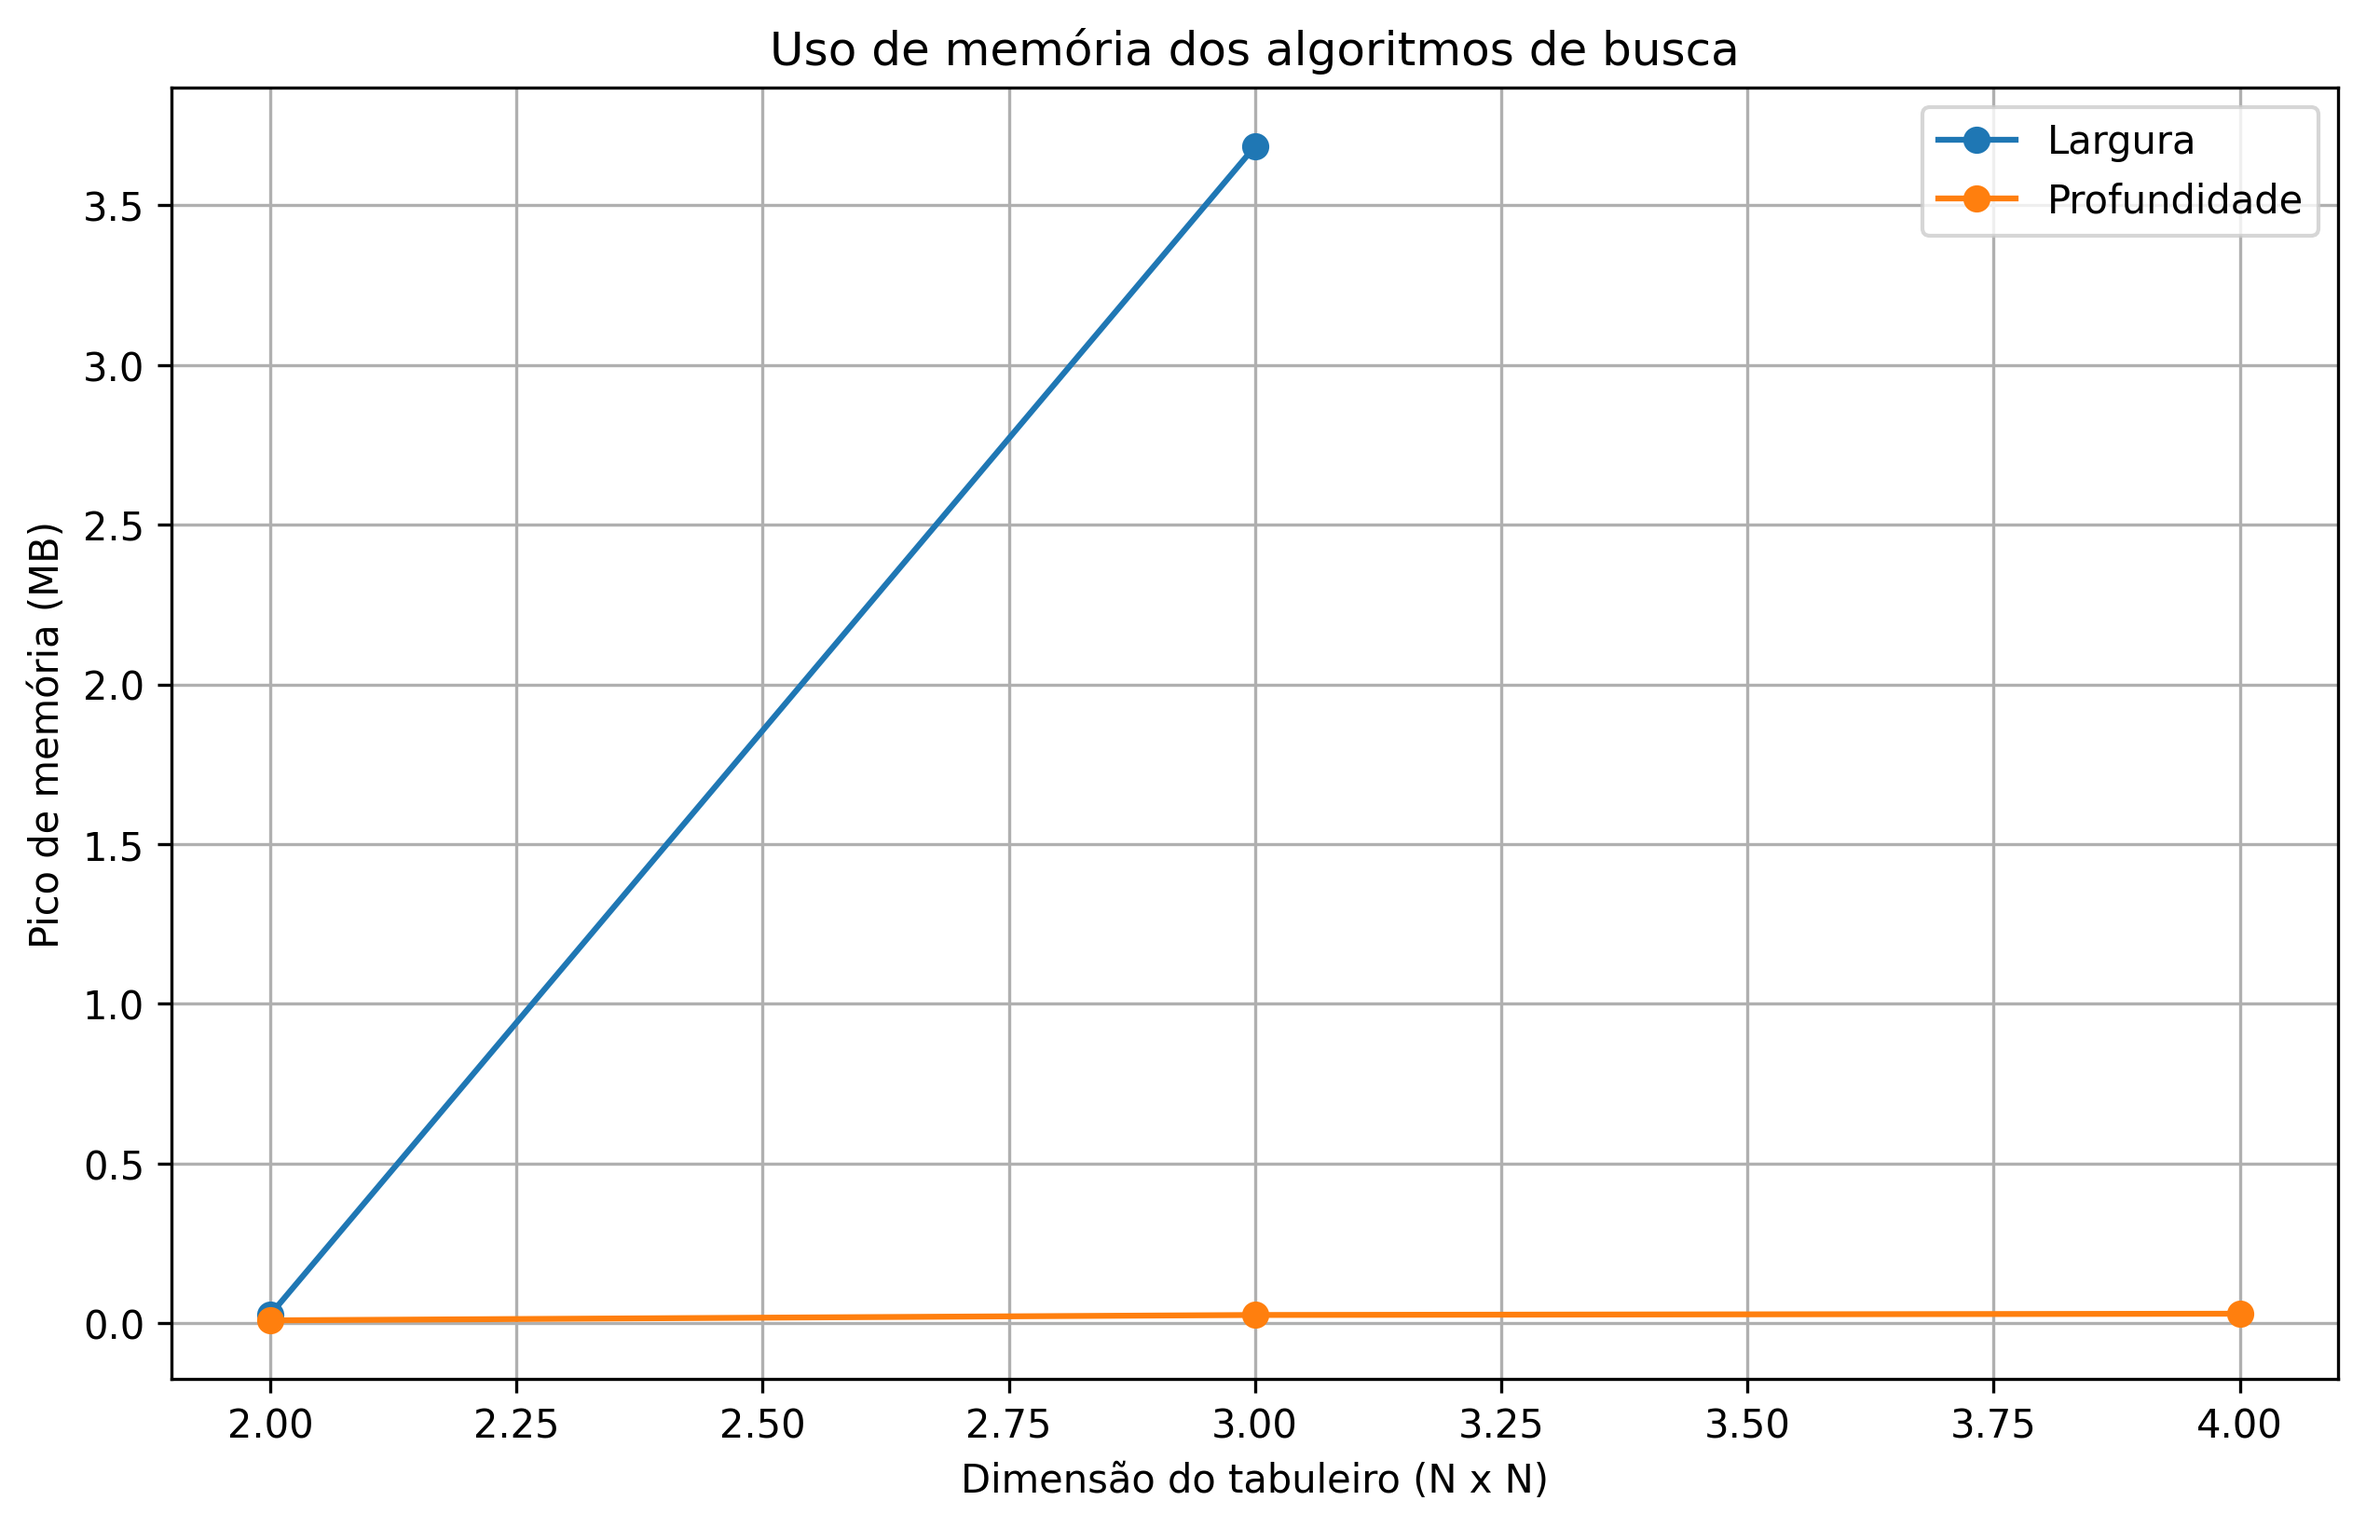
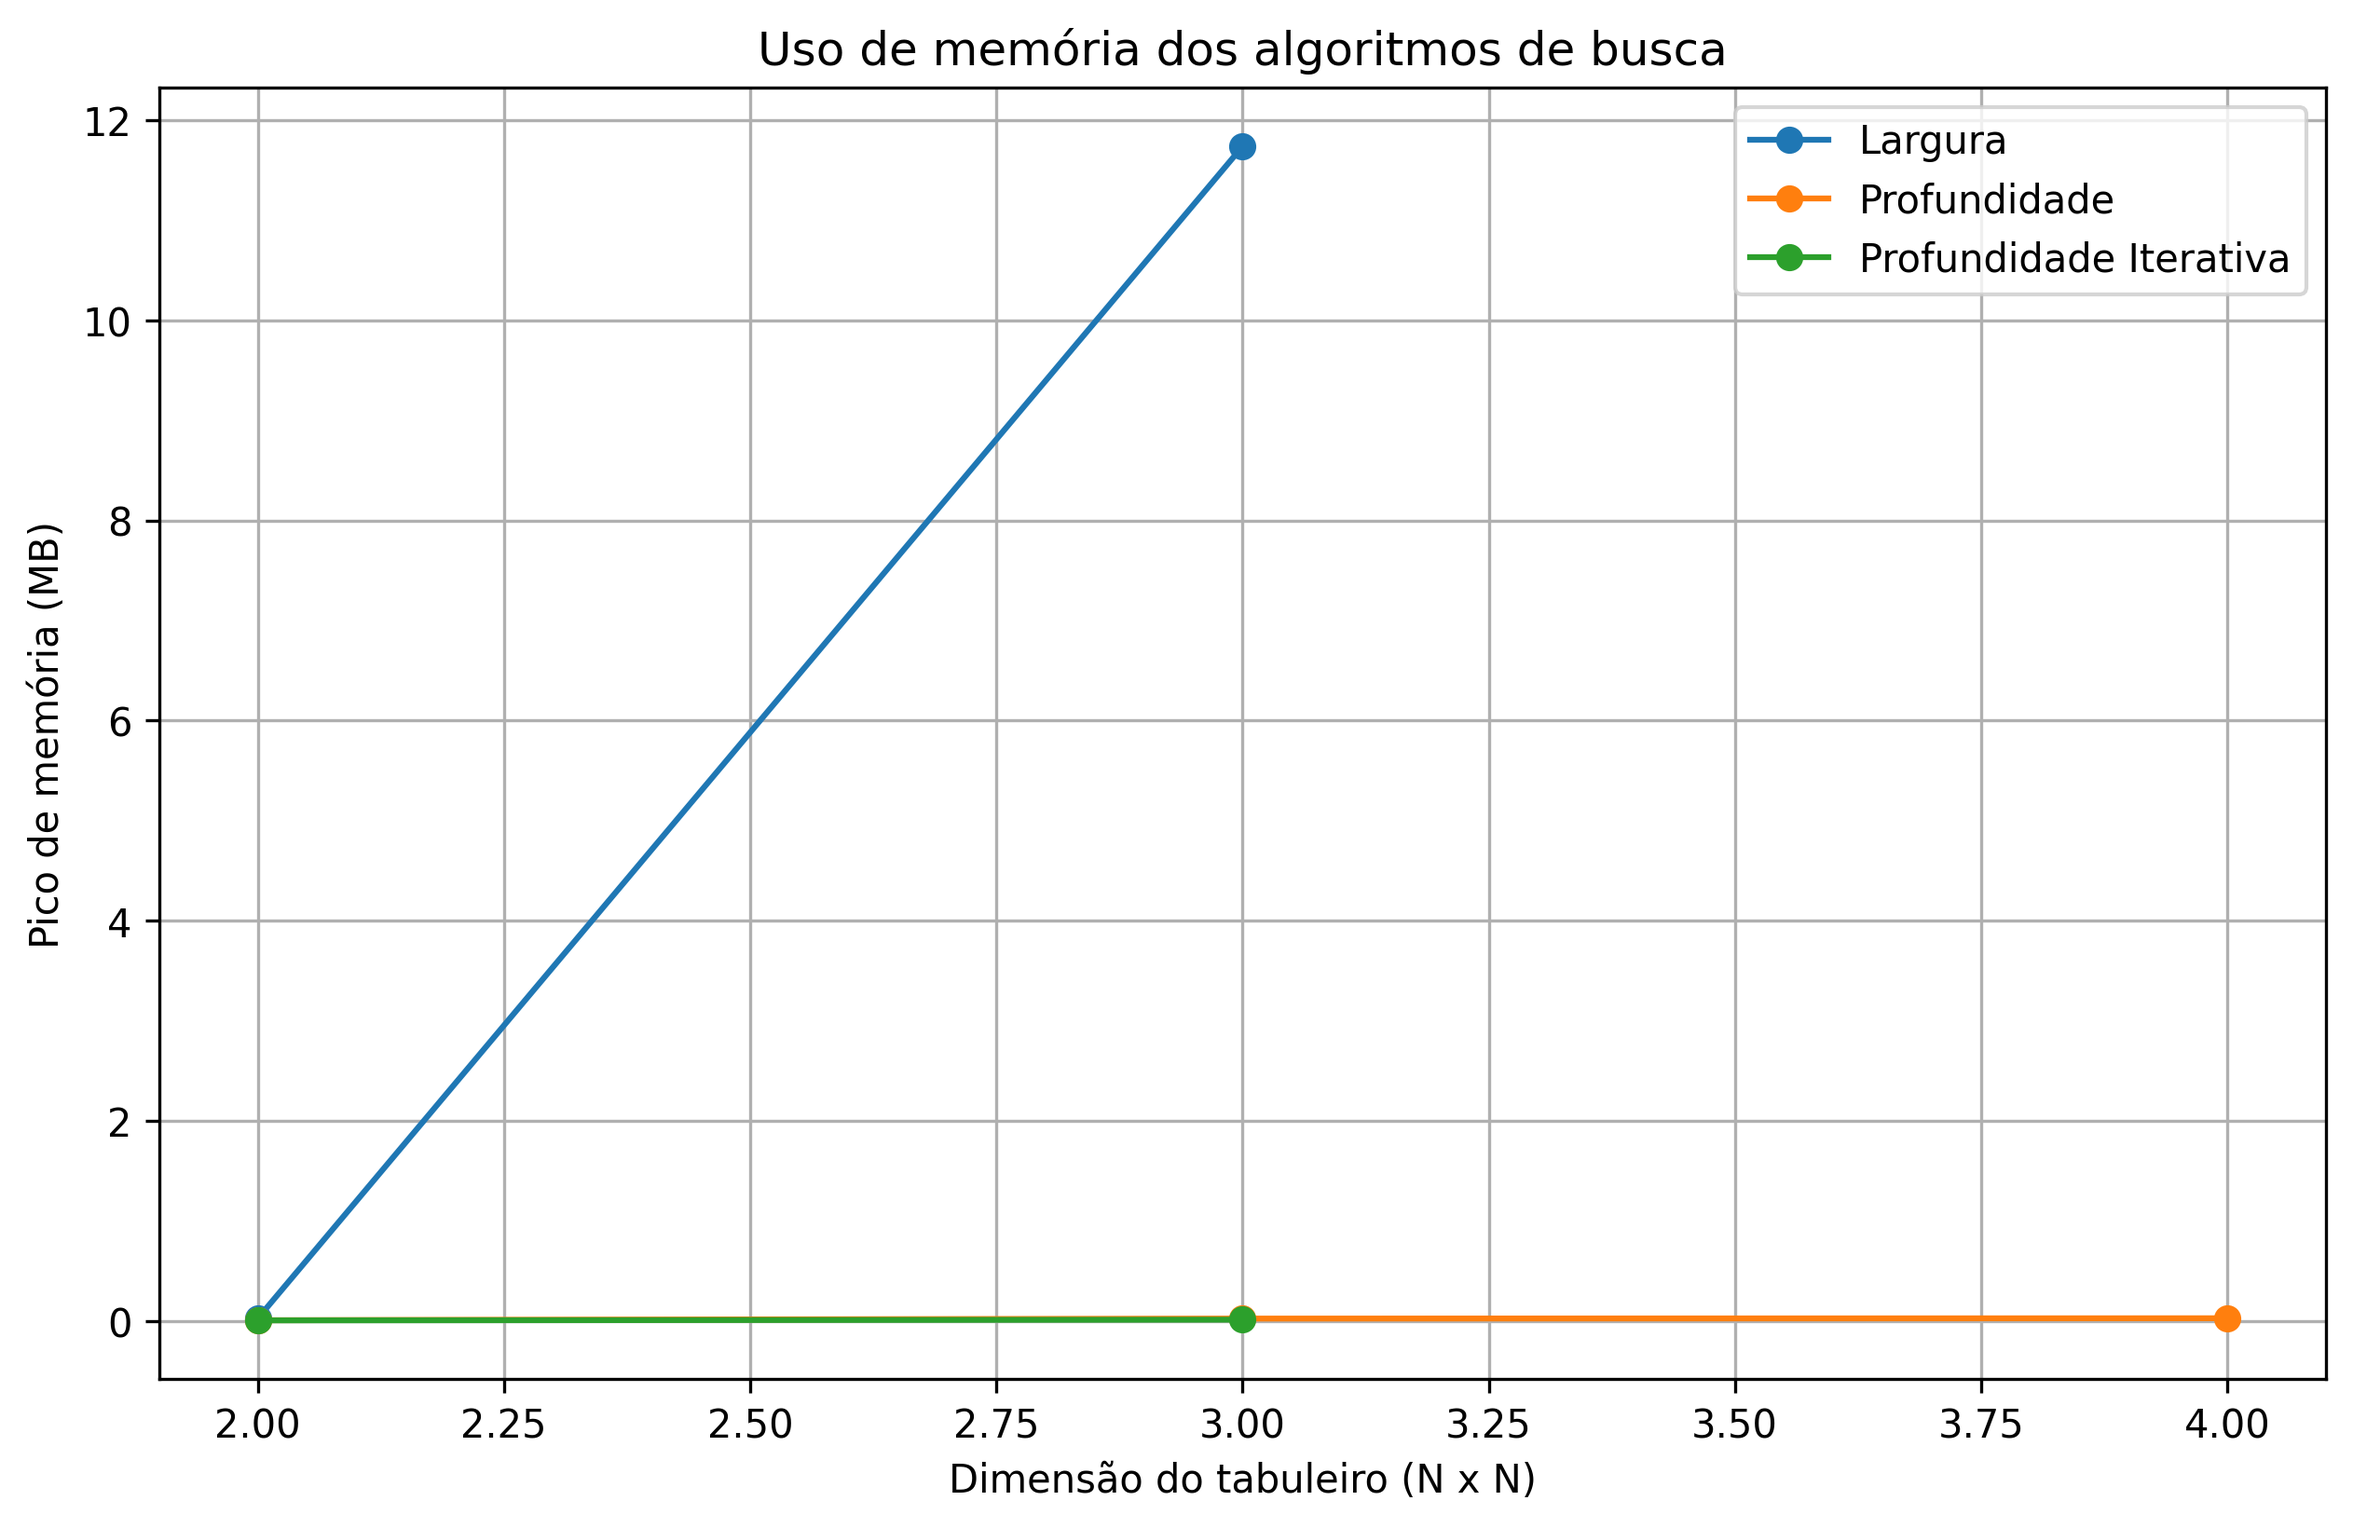
fix: now see the memory leak and time

diff --git a/AgentSpecification.py b/AgentSpecification.py
@@ -1,5 +1,5 @@
 import random
-from aigyminsper.search.search_algorithms import BuscaLargura, BuscaProfundidade
+from aigyminsper.search.search_algorithms import BuscaLargura, BuscaProfundidade, BuscaProfundidadeIterativa
 from aigyminsper.search.graph import State
 import json
 
@@ -8,18 +8,18 @@ import time
 import multiprocessing
 import tracemalloc
 import matplotlib.pyplot as plt
-
+import psutil
 
 def gerar_mapa(dimensao, pct_sujeira=0.4, sujo_na_origem=False):
     total_celulas = dimensao * dimensao
     qtd_sujas = round(total_celulas * pct_sujeira)
-    
+
     coordenadas = [(i, j) for i in range(dimensao) for j in range(dimensao)]
-    
+
     if not sujo_na_origem:
-        coordenadas.remove((0,0))
+        coordenadas.remove((0, 0))
         qtd_sujas = min(qtd_sujas, len(coordenadas))
-        
+
     sujas = random.sample(coordenadas, qtd_sujas)
 
     matriz = [['limpo' for _ in range(dimensao)] for _ in range(dimensao)]
@@ -35,7 +35,7 @@ class AgentSpecification(State):
             self.posicao = posicao
             self.quartos = quartos
             self.posicao_anterior = posicao_anterior
-            
+
     def successors(self):
         successors = []
 
@@ -51,7 +51,7 @@ class AgentSpecification(State):
                     self.posicao.copy()
                 )
                 successors.append(obj1)
-            
+
         if self.posicao[1] > 0:
             nova_pos = self.posicao.copy()
             nova_pos[1] -= 1
@@ -64,7 +64,7 @@ class AgentSpecification(State):
                     self.posicao.copy()
                 )
                 successors.append(obj2)
-            
+
         if self.posicao[0] > 0:
             nova_pos = self.posicao.copy()
             nova_pos[0] -= 1
@@ -77,7 +77,7 @@ class AgentSpecification(State):
                     self.posicao.copy()
                 )
                 successors.append(obj3)
-            
+
         if self.posicao[0] < len(self.quartos)-1:
             nova_pos = self.posicao.copy()
             nova_pos[0] += 1
@@ -90,10 +90,10 @@ class AgentSpecification(State):
                     self.posicao.copy()
                 )
                 successors.append(obj4)
-            
+
         x = self.posicao[0]
         y = self.posicao[1]
-        
+
         if self.quartos[x][y] == 'sujo':
             matriz = [linha.copy() for linha in self.quartos]
             matriz[x][y] = "limpo"
@@ -106,9 +106,9 @@ class AgentSpecification(State):
             )
 
             successors.append(obj5)
-            
+
         return successors
-    
+
     def is_goal(self):
         limpa = True
 
@@ -116,36 +116,40 @@ class AgentSpecification(State):
             if 'sujo' in linha:
                 limpa = False
 
-        pos_original = (self.posicao == [0,0])
+        pos_original = (self.posicao == [0, 0])
 
         return limpa and pos_original
-    
+
     def description(self):
         return """Resolvendo o problema de aspirador de pó com dois quartos."""
-        
+
     def cost(self):
         if "limpar" in self.operator:
             return 2
         else:
             return 1
-        
+
     def env(self):
         return json.dumps(self.__dict__)
 
 
 def executar_busca(nome_algoritmo, matriz, fila):
-    
+
     if nome_algoritmo == "Largura":
         algoritmo = BuscaLargura()
         limite = None
-        
+
     elif nome_algoritmo == "Profundidade":
         algoritmo = BuscaProfundidade()
         limite = 20
 
+    elif nome_algoritmo == "Profundidade Iterativa":
+        algoritmo = BuscaProfundidadeIterativa()
+        limite = None
+
     nova_matriz = [linha.copy() for linha in matriz]
 
-    state = AgentSpecification('', [0,0], nova_matriz)
+    state = AgentSpecification('', [0, 0], nova_matriz)
 
     tracemalloc.start()
     inicio = time.perf_counter()
@@ -153,7 +157,7 @@ def executar_busca(nome_algoritmo, matriz, fila):
     try:
 
         if limite is not None:
-            result = algoritmo.search(state,limite)
+            result = algoritmo.search(state, limite)
         else:
             result = algoritmo.search(state)
 
@@ -186,32 +190,62 @@ def executar_busca(nome_algoritmo, matriz, fila):
         })
 
 
-# ============================================================
-# ADICIONADO
-# Executa com limite máximo de 5 minutos
-# ============================================================
-
-def executar_com_timeout(nome_algoritmo, matriz, timeout=300):
+def executar_com_timeout(nome_algoritmo, matriz, timeout=300, limite_memoria_gb=16):
 
     fila = multiprocessing.Queue()
 
-    processo = multiprocessing.Process(target=executar_busca,args=(nome_algoritmo, matriz, fila))
+    processo = multiprocessing.Process(
+        target=executar_busca,
+        args=(nome_algoritmo, matriz, fila)
+    )
 
     processo.start()
 
-    # espera no máximo 300 segundos
-    processo.join(timeout)
+    inicio = time.perf_counter()
 
-    if processo.is_alive():
-        processo.terminate()
-        processo.join()
+    processo_psutil = psutil.Process(processo.pid)
 
-        return None
+    limite_memoria_bytes = limite_memoria_gb * (1024 ** 3)
+
+    while processo.is_alive():
+
+        tempo_atual = time.perf_counter() - inicio
+
+        if tempo_atual >= timeout:
+            processo.terminate()
+            processo.join()
+
+            return {
+                "status": "timeout"
+            }
+
+        try:
+            memoria_atual = processo_psutil.memory_info().rss
+
+            if memoria_atual >= limite_memoria_bytes:
+
+                processo.terminate()
+                processo.join()
+
+                return {
+                    "status": "memoria",
+                    "memoria": memoria_atual / (1024 ** 3)
+                }
+
+        except psutil.NoSuchProcess:
+            break
+        time.sleep(0.1)
+
+    processo.join()
 
     if not fila.empty():
-        return fila.get()
+        resultado = fila.get()
+        resultado["status"] = "concluido"
+        return resultado
 
-    return None
+    return {
+        "status": "erro"
+    }
 
 
 def gerar_graficos(resultados):
@@ -222,7 +256,7 @@ def gerar_graficos(resultados):
     for algoritmo, dados in resultados.items():
 
         if len(dados["dimensoes"]) > 0:
-            plt.plot(dados["dimensoes"],dados["tempos"],marker='o',label=algoritmo)
+            plt.plot(dados["dimensoes"], dados["tempos"], marker='o', label=algoritmo)
 
     plt.xlabel("Dimensão do tabuleiro (N x N)")
     plt.ylabel("Tempo de execução (segundos)")
@@ -230,7 +264,7 @@ def gerar_graficos(resultados):
     plt.legend()
     plt.grid(True)
 
-    plt.savefig("grafico_tempo.png",dpi=300,bbox_inches="tight")
+    plt.savefig("grafico_tempo.png", dpi=300, bbox_inches="tight")
 
     plt.show()
 
@@ -241,7 +275,7 @@ def gerar_graficos(resultados):
     for algoritmo, dados in resultados.items():
 
         if len(dados["dimensoes"]) > 0:
-            plt.plot(dados["dimensoes"],dados["memorias"],marker='o',label=algoritmo)
+            plt.plot(dados["dimensoes"], dados["memorias"], marker='o', label=algoritmo)
 
     plt.xlabel("Dimensão do tabuleiro (N x N)")
     plt.ylabel("Pico de memória (MB)")
@@ -249,7 +283,7 @@ def gerar_graficos(resultados):
     plt.legend()
     plt.grid(True)
 
-    plt.savefig("grafico_memoria.png",dpi=300,bbox_inches="tight")
+    plt.savefig("grafico_memoria.png", dpi=300, bbox_inches="tight")
 
     plt.show()
 
@@ -261,6 +295,7 @@ def main():
     algoritmos = [
         "Largura",
         "Profundidade",
+        "Profundidade Iterativa"
     ]
 
     resultados = {
@@ -273,14 +308,19 @@ def main():
             "dimensoes": [],
             "tempos": [],
             "memorias": []
+        },
+        "Profundidade Iterativa": {
+            "dimensoes": [],
+            "tempos": [],
+            "memorias": []
         }
     }
 
     ativos = {
         "Largura": True,
         "Profundidade": True,
+        "Profundidade Iterativa": True
     }
-
 
     while any(ativos.values()):
 
@@ -304,15 +344,40 @@ def main():
             resultado = executar_com_timeout(
                 nome_algoritmo,
                 matriz,
-                timeout=300
+                timeout=300,
+                limite_memoria_gb=16
             )
 
+            # Parou porque passou de 5 minutos
+            if resultado["status"] == "timeout":
+                print(
+                    f'{nome_algoritmo} ultrapassou 5 minutos '
+                    f'em {dimensao}x{dimensao}.'
+                )
 
-            if resultado is None:
-                print(f'{nome_algoritmo} ultrapassou 5 minutos em {dimensao}x{dimensao}.')
                 ativos[nome_algoritmo] = False
                 continue
 
+            # Parou porque atingiu 16 GB
+            elif resultado["status"] == "memoria":
+                print(
+                    f'{nome_algoritmo} atingiu 16 GB de memória '
+                    f'em {dimensao}x{dimensao}.'
+                )
+
+                ativos[nome_algoritmo] = False
+                continue
+
+            # Algum erro inesperado
+            elif resultado["status"] == "erro":
+                print(
+                    f'Erro durante a execução de {nome_algoritmo}.'
+                )
+
+                ativos[nome_algoritmo] = False
+                continue
+
+            # Execução terminou normalmente
             tempo = resultado["tempo"]
             memoria = resultado["memoria"]
 
